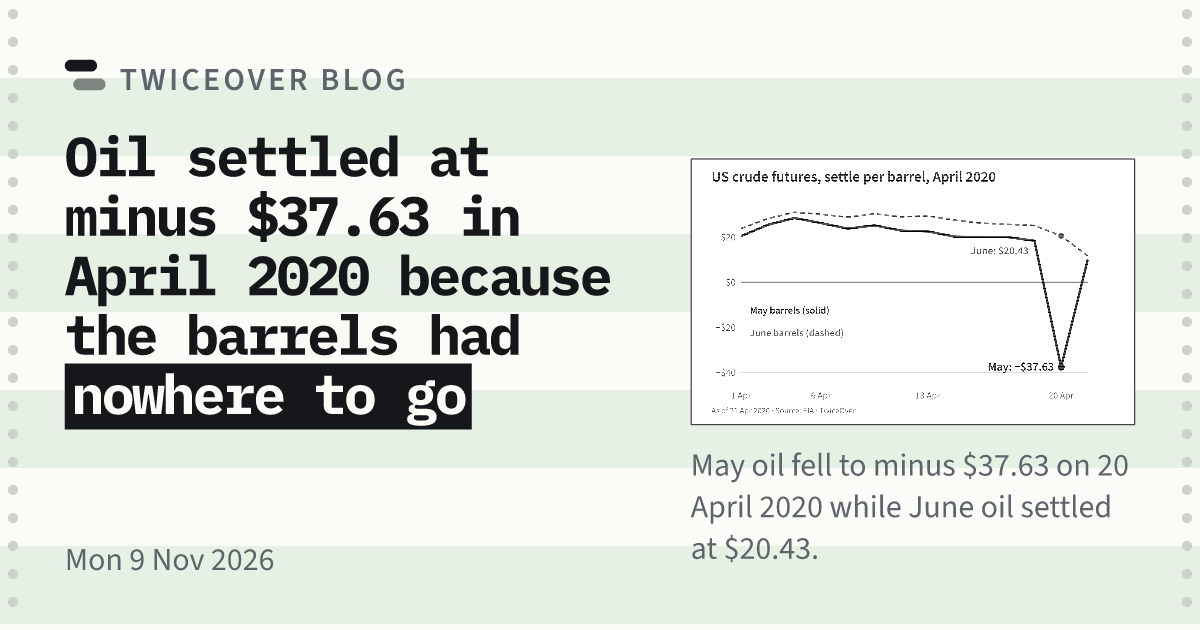
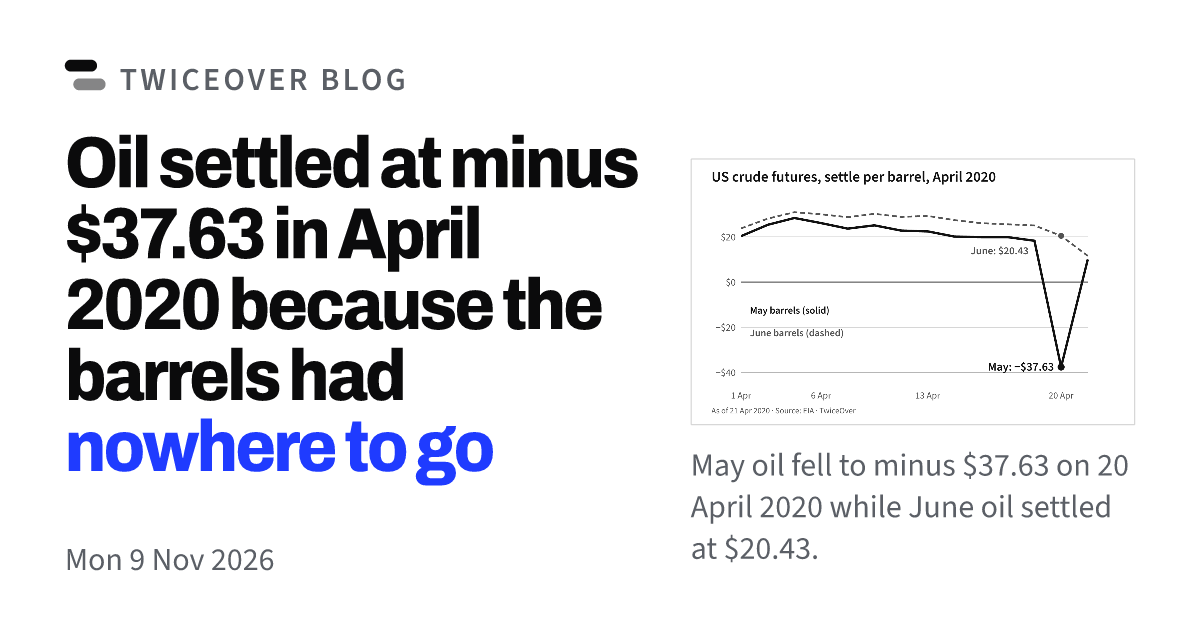
growth: oil post moves to the exhibit look, white ground (stock-analyst-platform#4279)

diff --git a/src/content/blog/oil-below-zero-april-2020.md b/src/content/blog/oil-below-zero-april-2020.md
@@ -5,7 +5,7 @@ publishAt: "2026-11-09T07:00:00-05:00"
 topic: "other-markets"
 lens: "history"
 build: "chart-led"
-look: "printout"
+look: "exhibit"
 hit: "nowhere to go"
 image:
   src: "/blog-images/oil-below-zero-may-june-2020.png"
